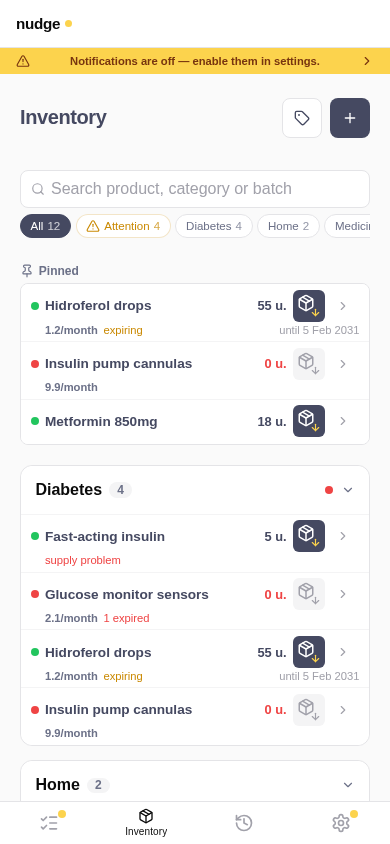
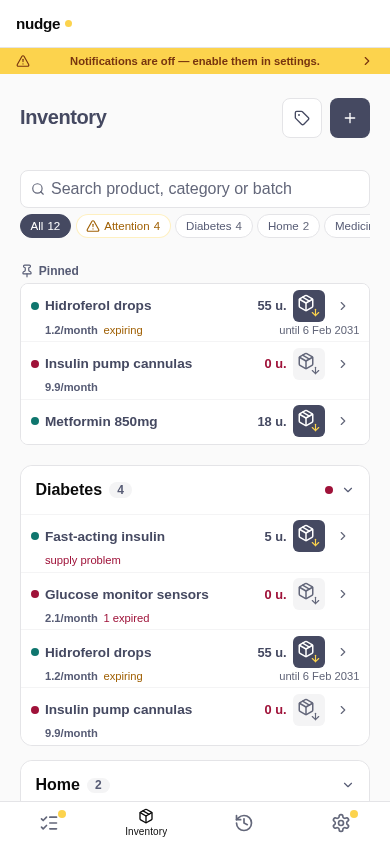
docs: document the accessibility gate and regenerate screenshots
- development.md: E2E runs in CI on every PR to main; the new axe gate, how
  to read its failures and where a new screen gets a scene
- Screenshots regenerated for the new palette and inventory rows

diff --git a/docs/development.md b/docs/development.md
@@ -265,8 +265,14 @@ commands run locally:
   request that leaves its own touched lines uncovered is flagged before merge.
 - **End-to-end** — Playwright specs covering online and offline flows
   (dashboard, inventory, history, sharing, i18n, push, plus dedicated offline
-  read / mutations / sync suites). Not wired into CI today; run them locally
-  with `make test-e2e`.
+  read / mutations / sync suites). CI runs the whole suite on every pull
+  request to `main`, with no retries; run it locally with `make test-e2e`.
+- **Accessibility** — `e2e/tests/a11y.spec.js` runs axe-core (WCAG 2.2 A/AA)
+  over 42 screen states at a phone (Pixel 7, touch) and a desktop width, and
+  **fails on any `serious` or `critical` violation**. The failure message names
+  the rule, the impact and the first offending elements; the full axe result is
+  attached to the test in the Playwright report. The states live in
+  `e2e/tests/a11y/scenes.js`: a new screen or modal should get a scene there.
 
 Test counts are deliberately not quoted here — they change every week and a
 stale number is worse than none. `make help` lists the targets that report them.
